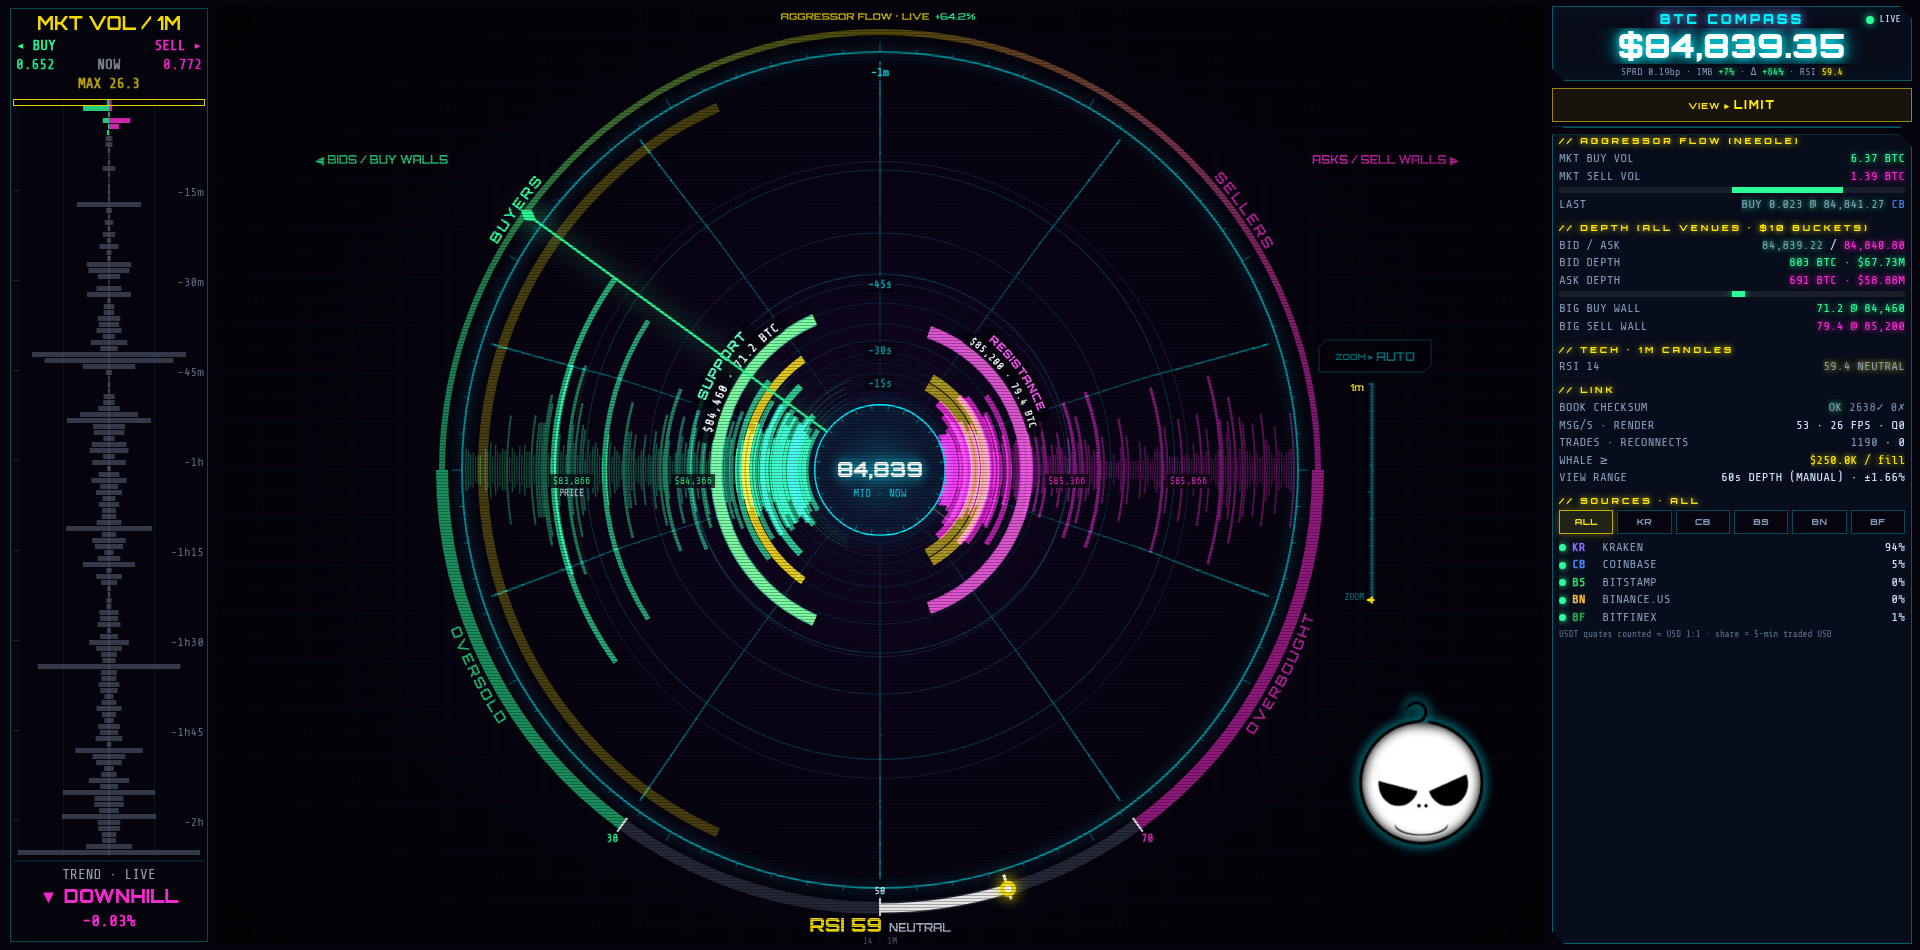
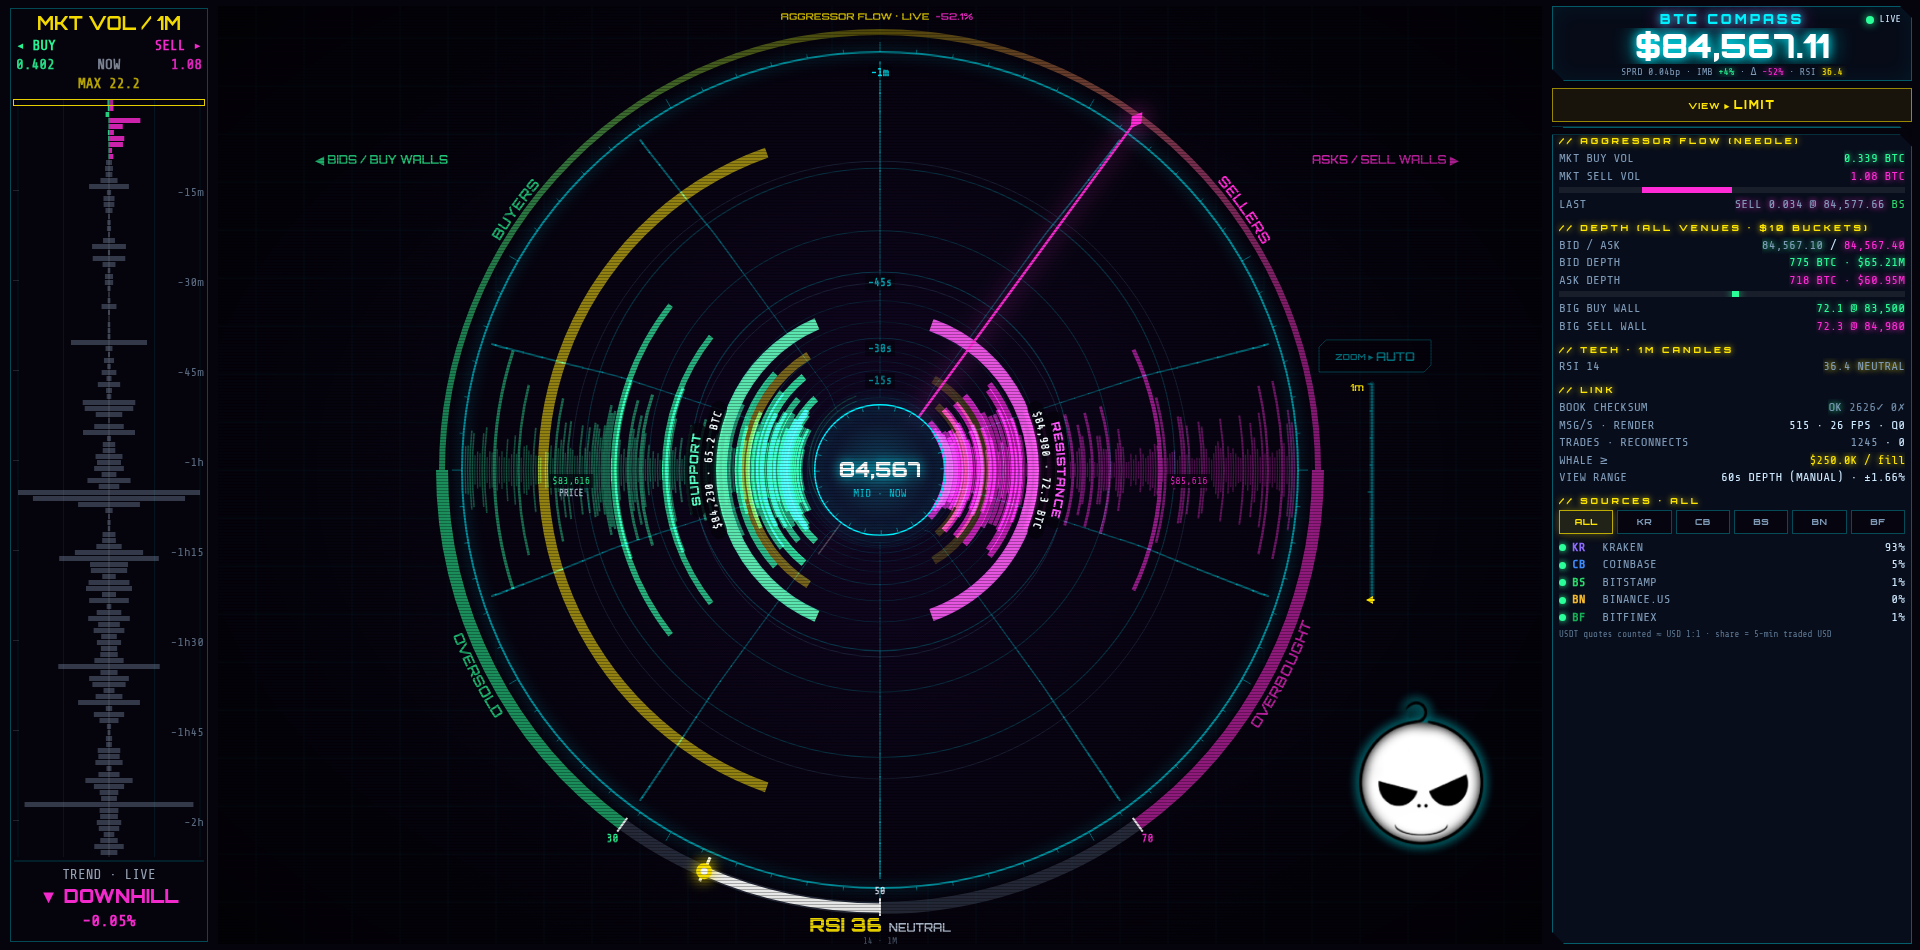
Remove ZOOM bar label; center SUPPORT/RESISTANCE labels on arc midpoint; price tags avoid them (build 20261002-1424)

diff --git a/index.html b/index.html
@@ -3,7 +3,7 @@
 <head>
 <meta charset="utf-8">
 <meta http-equiv="Cache-Control" content="no-cache, no-store, must-revalidate"><meta http-equiv="Pragma" content="no-cache"><meta http-equiv="Expires" content="0">
-<script>window.OFC_BUILD='20261002-1352';(function(){try{if(!/^https?:/.test(location.protocol))return;fetch(location.pathname+'?_='+Date.now(),{cache:'no-store'}).then(r=>r.text()).then(t=>{const m=t.match(/OFC_BUILD='([^']+)'/);if(m&&m[1]!==window.OFC_BUILD&&sessionStorage.getItem('ofcB')!==m[1]){sessionStorage.setItem('ofcB',m[1]);location.replace(location.pathname+'?v='+m[1]+location.hash);}}).catch(()=>{});}catch(e){}})();</script>
+<script>window.OFC_BUILD='20261002-1424';(function(){try{if(!/^https?:/.test(location.protocol))return;fetch(location.pathname+'?_='+Date.now(),{cache:'no-store'}).then(r=>r.text()).then(t=>{const m=t.match(/OFC_BUILD='([^']+)'/);if(m&&m[1]!==window.OFC_BUILD&&sessionStorage.getItem('ofcB')!==m[1]){sessionStorage.setItem('ofcB',m[1]);location.replace(location.pathname+'?v='+m[1]+location.hash);}}).catch(()=>{});}catch(e){}})();</script>
 <meta name="viewport" content="width=device-width,initial-scale=1,viewport-fit=cover,user-scalable=no">
 <meta name="theme-color" content="#05030c">
 <meta name="color-scheme" content="dark">
@@ -810,6 +810,8 @@ let PLBL=[];
 const PF=p=>'$'+fmtP0(p);
 function drawPriceLabels(){   // LIMIT: ring prices on the horizontal axis, over the walls
   if(!PLBL.length)return;ctx.save();ctx.font=`${WIDE?10:9}px "Share Tech Mono",monospace`;ctx.textAlign='center';ctx.textBaseline='top';
+  PLBL=PLBL.filter(q=>{const K=KLB[q.side];if(!K)return true;const d=Math.abs(q.cx-CX);return d+q.w/2<K.r0||d-q.w/2>K.r1;});   // never draw over SUPPORT/RESISTANCE text
+  if(!PLBL.length){ctx.restore();return;}
   for(const q of PLBL){ctx.fillStyle='rgba(5,3,12,.72)';ctx.fillRect(q.x,q.y,q.w,q.h);ctx.fillStyle=q.side==='bid'?'rgba(43,255,154,.9)':'rgba(255,43,214,.9)';ctx.fillText(q.txt,q.cx,q.y+2);}
   const o=PLBL.filter(q=>q.side==='bid').sort((a,b)=>a.x-b.x)[0];
   if(o){ctx.font=`700 ${WIDE?9:8}px "Share Tech Mono",monospace`;ctx.fillStyle='rgba(200,215,235,.75)';ctx.fillText('PRICE',o.cx,o.y+o.h+1);}
@@ -869,13 +871,13 @@ function drawHistory(now){
 const UNIT='BTC';
 // significant walls = top 5 per side by size + any giant (>= 50% of the biggest level) -> SUPPORT / RESISTANCE candidates
 const sigWalls=(lv,maxq)=>{const t=topBySize(lv,5),g=lv.filter(x=>x[1]>=0.5*maxq&&!t.includes(x));return t.concat(g);};
-let topWalls={bid:[],ask:[]}, KEYW={bid:null,ask:null};
+let topWalls={bid:[],ask:[]}, KEYW={bid:null,ask:null}, KLB={bid:null,ask:null};   // KLB: radial extent of the key-wall label band (price tags avoid it)
 // curved label along a circle (upright in the upper half): returns per-char {c,a,rot} and total angle
 function arcText(txt,r,th0){const ws=[...txt].map(ch=>ctx.measureText(ch).width+0.6),tot=ws.reduce((x,y)=>x+y,0)/r,ch=[];let a=th0-tot/2;
   [...txt].forEach((c,i)=>{const d=ws[i]/r,am=a+d/2;ch.push({c,a:am,rot:am+Math.PI/2});a+=d;});return {ch,tot};}
 function drawKeyWalls(now,maxq){   // SUPPORT (bid) / RESISTANCE (ask): highlight + two curved lines following the wall arc, upper side
   const span=dispMid*PR_();
-  for(const [side,lv,c] of [['bid',sortedB,COL.bid],['ask',sortedA,COL.ask]]){
+  for(const [side,lv,c] of [['bid',sortedB,COL.bid],['ask',sortedA,COL.ask]]){KLB[side]=null;
     const vis=lv.filter(([px])=>rOf(px-dispMid)<=RMAX*1.0),sig=sigWalls(vis,maxq);
     let key=null,ks=-1;for(const w of sig){const sc=w[1]*(1-0.45*Math.min(1,Math.abs(w[0]-dispMid)/span));if(sc>ks){ks=sc;key=w;}}
     KEYW[side]=key?{px:key[0],q:key[1]}:null;if(!key)continue;
@@ -883,20 +885,17 @@ function drawKeyWalls(now,maxq){   // SUPPORT (bid) / RESISTANCE (ask): highligh
     const pl=0.85+0.15*Math.sin(now/650),cc=[Math.min(255,c[0]+45),Math.min(255,c[1]+45),Math.min(255,c[2]+45)];
     ctx.save();ctx.globalCompositeOperation='source-over';ctx.strokeStyle=rgba(cc,(0.95*pl).toFixed(3));ctx.lineWidth=lw+2.5;ctx.shadowColor=rgba(c,1);ctx.shadowBlur=Q>0?(LOW?16:28):0;
     ctx.beginPath();ctx.arc(CX,CY,r,a0-sp,a0+sp);ctx.stroke();ctx.restore();
-    // text: centred on the arc's upper portion nearest the vertical centre line (SUPPORT: right/top part of its arc around 9 o'clock,
-    // RESISTANCE: left/top part of its arc around 3 o'clock), upright and fully above the horizon; font shrinks with the arc, fades when too small
+    // text: centred on the angular midpoint of its own wall arc (a0), following the curve, upright (outward-facing); font shrinks with the arc, fades when too small
     const base1=WIDE?Math.round(Math.max(12,Math.min(16,RMAX/27))):10, sc=Math.max(0.62,Math.min(1,(r-R0)/(RMAX*0.28)));
     const fs1=Math.max(7,Math.round(base1*sc)), fs2=Math.max(7,fs1-1), R1=r+lw/2+4, R2=R1+fs2+3;
     const L1=`${PF(px)} · ${fmtQ(q)} ${UNIT}`,L2=side==='bid'?'SUPPORT':'RESISTANCE';
     const F1=`700 ${fs2}px "Share Tech Mono",monospace`,F2=`900 ${fs1}px Orbitron,sans-serif`;
     ctx.font=F1;const w1=ctx.measureText(L1).width/R1;ctx.font=F2;const w2=ctx.measureText(L2).width/R2,totM=Math.max(w1,w2);
     let al=Math.max(0,Math.min(1,(r-R0*1.12)/(R0*0.45)))*Math.max(0,Math.min(1,(1.45-totM)/0.3));   // too close to the hub / too long for the arc -> fade
-    if(al<=0.03)continue;
-    const H=Math.PI/2, th0=side==='bid'?Math.PI+sp/2:2*Math.PI-sp/2;
-    const thFor=tot=>side==='bid'?Math.min(Math.PI+H-tot/2-0.03,Math.max(Math.PI+tot/2+0.06,th0)):Math.max(Math.PI+H+tot/2+0.03,Math.min(2*Math.PI-tot/2-0.06,th0));
+    if(al<=0.03)continue;KLB[side]={r0:R1-3,r1:R2+fs1+3};
     ctx.save();ctx.globalAlpha=al;ctx.textAlign='center';ctx.textBaseline='alphabetic';
     for(const [txt,R,font,col,glow] of [[L1,R1,F1,'#f2fbff',0],[L2,R2,F2,rgba(cc,1),10]]){
-      ctx.font=font;const fz=parseFloat(font.split(' ')[1]),tot0=ctx.measureText(txt).width/R,th=thFor(tot0),T=arcText(txt,R,th);
+      ctx.font=font;const fz=parseFloat(font.split(' ')[1]),th=a0,T=arcText(txt,R,th);
       ctx.save();ctx.shadowBlur=0;ctx.lineCap='round';ctx.strokeStyle='rgba(5,3,12,.78)';ctx.lineWidth=fz+5;ctx.beginPath();ctx.arc(CX,CY,R+fz*0.36,th-T.tot/2-2/R,th+T.tot/2+2/R);ctx.stroke();ctx.restore();   // dark band for legibility
       ctx.fillStyle=col;ctx.shadowColor='rgba(0,0,0,.95)';ctx.shadowBlur=Q>0?6:3;
       for(const ch of T.ch){const x=CX+Math.cos(ch.a)*R,y=CY+Math.sin(ch.a)*R;ctx.save();ctx.translate(x,y);ctx.rotate(ch.rot);ctx.fillText(ch.c,0,0);ctx.restore();}
@@ -1427,7 +1426,6 @@ function drawZoomBar(now){
   const lab=fmtAge(Math.round(VIEW==='limit'?LWIN:MWIN)).replace('-','');   // zoom = time: LIMIT depth / MARKET window
   ctx.font=`700 ${WIDE?10:8.5}px Orbitron,sans-serif`;ctx.textAlign='right';ctx.fillStyle=`rgba(${col},.95)`;
   ctx.fillText(lab,x-8,y0+7);
-  ctx.font=`${WIDE?9:7.5}px "Share Tech Mono",monospace`;ctx.fillStyle='rgba(0,240,255,.5)';ctx.fillText('ZOOM',x-8,y1);
   if(Z.pw){const {px,py,pw,ph}=Z,on=rangeAuto;   // big AUTO toggle: yellow like the VIEW button when on, dim when off
     ctx.beginPath();ctx.moveTo(px+7,py);ctx.lineTo(px+pw,py);ctx.lineTo(px+pw,py+ph-7);ctx.lineTo(px+pw-7,py+ph);ctx.lineTo(px,py+ph);ctx.lineTo(px,py+7);ctx.closePath();
     ctx.fillStyle=on?'rgba(255,230,0,.10)':'rgba(5,3,12,.75)';ctx.fill();
